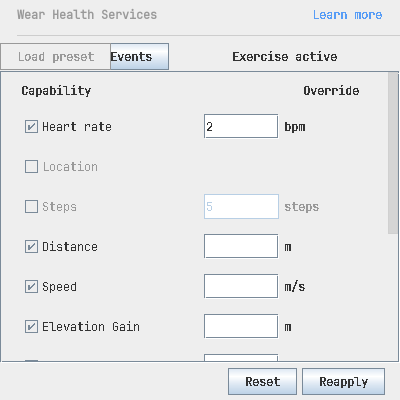
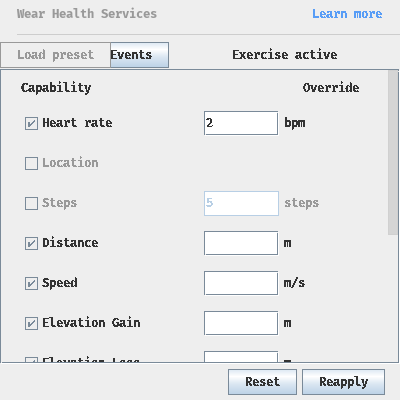
Fix compatibility with bzlmod
After bzlmod, default workspace name changes from __main__ to _main.

Screenshot goldens for whs-wear tests updated.

Bug: 340640065

diff --git a/jps-build/jps-test-runner/ExpectedFailuresRunNotifier.java b/jps-build/jps-test-runner/ExpectedFailuresRunNotifier.java
@@ -45,7 +45,7 @@ public class ExpectedFailuresRunNotifier extends RunNotifierWrapper {
   static {
     String expectedFailuresFile = System.getenv("EXPECTED_FAILURES_FILE");
     if (expectedFailuresFile != null && !expectedFailuresFile.isEmpty()) {
-      Path path = Path.of(System.getenv("RUNFILES_DIR")).resolve("__main__").resolve(expectedFailuresFile);
+      Path path = Path.of(System.getenv("RUNFILES_DIR")).resolve("_main").resolve(expectedFailuresFile);
       try {
         expectedFailures.addAll(Files.readAllLines(path));
       }

diff --git a/aswb/querysync/javatests/com/google/idea/blaze/qsync/testdata/TestData.java b/aswb/querysync/javatests/com/google/idea/blaze/qsync/testdata/TestData.java
@@ -56,7 +56,7 @@ public enum TestData {
     this.srcPaths = stream(paths).map(Path::of).collect(toImmutableList());
   }
 
-  private static final String WORKSPACE_NAME = "__main__";
+  private static final String WORKSPACE_NAME = "_main";
 
   public static final Path ROOT =
       Path.of(

diff --git a/aswb/querysync/javatests/com/google/idea/blaze/qsync/testdata/JavaInfoTxt.java b/aswb/querysync/javatests/com/google/idea/blaze/qsync/testdata/JavaInfoTxt.java
@@ -57,7 +57,7 @@ public enum JavaInfoTxt {
             .collect(ImmutableList.toImmutableList());
   }
 
-  private static final String WORKSPACE_NAME = "__main__";
+  private static final String WORKSPACE_NAME = "_main";
 
   public static final Path ROOT =
       Path.of(
